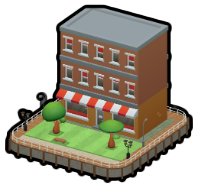
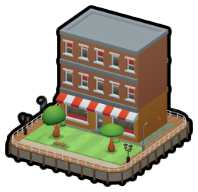
mow: map shots frame the tallest thing, pick the HUD outline's width
- TownSnapshotScene: the shot reaches the top of the tallest thing built (a fixed 15-unit frame cut tall buildings off)
- Map shots tab: the HUD outline's width in pixels (1-12, default 3), saved per zone (strokeWidth)
- Re-baked the town's pictures

diff --git a/games/mow/web/public/mapshots.js b/games/mow/web/public/mapshots.js
@@ -5,7 +5,7 @@
 //     (a second copy of town3d.js) — started from the town (↺ Copy from the town), then anything goes: move things
 //     closer, drop what clutters, add what tells the story.
 // Its camera (yaw round, pitch above; isometric or perspective with its field of view; "🎯 Use this view" takes the
-// diorama view's) sets the angle, and "HUD outline" a black stroke round the small picture. 📸 Take snapshot opens the
+// diorama view's) sets the angle, and "HUD outline" a black stroke round the small picture (its width in pixels). 📸 Take snapshot opens the
 // game in snapshot mode for that zone (TownSnapshotScene: the game's own look), which posts two pictures back here
 // (POST /api/map-snapshot): `<zone>` (512 across, the HUD's reveal) and `<zone>-small` (the HUD's corner).
 
@@ -29,7 +29,7 @@ let preview;
 
 const zoneSettings = (id) => {
     const saved = shots.zones[id] ?? {};
-    return { mode: 'original', stroke: false, ...saved, camera: { ...DEFAULT_CAMERA, ...saved.camera } };
+    return { mode: 'original', stroke: false, strokeWidth: 3, ...saved, camera: { ...DEFAULT_CAMERA, ...saved.camera } };
 };
 const zoneName = (id) => (id === 'town' ? 'Whole town' : town.sections.find((s) => s.id === id)?.name ?? id);
 const imageUrl = (id, small = false) => `/map-images/${id}${small ? '-small' : ''}.webp?t=${Date.now()}`;
@@ -64,7 +64,13 @@ function render() {
         fovLabel.hidden = ortho.checked;
         void saveSettings({ camera: camera() });
     } });
-    const stroke = el('input', { type: 'checkbox', checked: settings.stroke, onchange: () => saveSettings({ stroke: stroke.checked }) });
+    const strokeWidth = el('input', { type: 'number', min: 1, max: 12, step: 1, value: settings.strokeWidth, title: 'The outline\'s width (pixels, on the 192-wide picture)',
+        onchange: () => saveSettings({ strokeWidth: Math.min(12, Math.max(1, Math.round(Number(strokeWidth.value) || 3))) }) });
+    const strokeWidthLabel = el('label', { hidden: !settings.stroke }, strokeWidth, ' px');
+    const stroke = el('input', { type: 'checkbox', checked: settings.stroke, onchange: () => {
+        strokeWidthLabel.hidden = !stroke.checked;
+        void saveSettings({ stroke: stroke.checked });
+    } });
     const custom = settings.mode === 'custom';
     const bar = el('div', { class: 'toolbar mapshots-bar' },
         el('label', {}, 'Zone ', el('select', { onchange: (event) => switchZone(event.target.value) },
@@ -77,6 +83,7 @@ function render() {
         el('label', { title: 'Isometric: no perspective (an orthographic camera). Off: a perspective camera with its field of view.' }, ortho, ' Isometric'),
         fovLabel,
         el('label', { title: 'A black outline round the HUD corner\'s (small) picture, like the rest of the HUD' }, stroke, ' HUD outline'),
+        strokeWidthLabel,
         custom ? el('button', { title: 'The diorama view\'s angle (orbit it first)', onclick: () => useView() }, '🎯 Use this view') : '',
         custom ? el('button', { title: 'Start the diorama again from the town as it is', onclick: () => copyFromTown(true) }, '↺ Copy from the town') : '',
         el('span', { class: 'spacer' }),
@@ -95,8 +102,8 @@ function render() {
 async function saveSettings(change) {
     const settings = { ...zoneSettings(zone), ...change };
     try {
-        await api(`/api/mapshots?zone=${encodeURIComponent(zone)}`, { method: 'PUT', body: JSON.stringify({ mode: settings.mode, camera: settings.camera, stroke: settings.stroke }) });
-        shots.zones[zone] = { ...shots.zones[zone], mode: settings.mode, camera: settings.camera, stroke: settings.stroke };
+        await api(`/api/mapshots?zone=${encodeURIComponent(zone)}`, { method: 'PUT', body: JSON.stringify({ mode: settings.mode, camera: settings.camera, stroke: settings.stroke, strokeWidth: settings.strokeWidth }) });
+        shots.zones[zone] = { ...shots.zones[zone], mode: settings.mode, camera: settings.camera, stroke: settings.stroke, strokeWidth: settings.strokeWidth };
     } catch (error) {
         toast(`Could not save: ${error.message}`, 'bad');
     }

diff --git a/games/mow/game/debug/TownSnapshotScene.ts b/games/mow/game/debug/TownSnapshotScene.ts
@@ -32,7 +32,7 @@ export const SNAPSHOT_PARAM = 'mapshots';
 const RENDER_WIDTH = 2048;
 const BIG_WIDTH = 512;
 const SMALL_WIDTH = 192;
-/** The small picture's outline (`stroke`): its width in pixels. */
+/** The small picture's outline (`stroke`): its width in pixels unless the zone sets one (`strokeWidth`). */
 const STROKE_PX = 3;
 /** A perspective camera's field of view unless the zone sets one (degrees, vertical). */
 const DEFAULT_FOV = 35;
@@ -43,7 +43,7 @@ const MARGIN = 0.03;
 /** A section's slab of earth under it (thickness, colour), and how much of the town round it the clip keeps. */
 const SLAB = { depth: 1.1, color: 0x9a6a42 };
 const CLIP_PAD = 0.02;
-/** The shot's first frame reaches this high (cropped to what's drawn afterwards). */
+/** The shot's frame reaches this high when nothing is built yet (else the tallest thing's top: top()). */
 const MAX_HEIGHT = 15;
 /** A pixel this opaque (0-255) or more counts as drawn, for the crop. */
 const CROP_ALPHA = 8;
@@ -66,8 +66,9 @@ interface Camera {
 interface ZoneShot {
     mode?: 'original' | 'custom';
     camera?: Camera;
-    /** A black outline round the small (HUD) picture's silhouette. */
+    /** A black outline round the small (HUD) picture's silhouette, `strokeWidth` pixels wide. */
     stroke?: boolean;
+    strokeWidth?: number;
 }
 
 export default class TownSnapshotScene extends ThreeScene {
@@ -181,7 +182,7 @@ export default class TownSnapshotScene extends ThreeScene {
             const small = shrunk(render, SMALL_WIDTH);
             const pictures: [string, HTMLCanvasElement][] = [
                 [shot.name, shrunk(render, BIG_WIDTH)],
-                [`${shot.name}-small`, this.settings.stroke ? outlined(small, STROKE_PX) : small],
+                [`${shot.name}-small`, this.settings.stroke ? outlined(small, Math.max(1, this.settings.strokeWidth ?? STROKE_PX)) : small],
             ];
             try {
                 for (const [name, canvas] of pictures) {
@@ -207,7 +208,7 @@ export default class TownSnapshotScene extends ThreeScene {
         const rect = { minX: Math.min(...xs), maxX: Math.max(...xs), minZ: Math.min(...zs), maxZ: Math.max(...zs) };
         return new THREE.Box3(
             new THREE.Vector3(rect.minX, TOWN.island ? -TOWN.island.sideDepth : -SLAB.depth, rect.minZ),
-            new THREE.Vector3(rect.maxX, MAX_HEIGHT, rect.maxZ),
+            new THREE.Vector3(rect.maxX, this.top(), rect.maxZ),
         );
     }
 
@@ -216,8 +217,20 @@ export default class TownSnapshotScene extends ThreeScene {
         const rect = rectOf(section);
         return new THREE.Box3(
             new THREE.Vector3(rect.minX, -SLAB.depth, rect.minZ),
-            new THREE.Vector3(rect.maxX, MAX_HEIGHT, rect.maxZ),
+            new THREE.Vector3(rect.maxX, this.top(), rect.maxZ),
         );
+    }
+
+    /**
+     * The top of the tallest thing built (the frame reaches it: a fixed height cut tall buildings off; the crop takes
+     * away what's left over).
+     */
+    private top(): number {
+        const box = new THREE.Box3();
+        this.threeScene.traverseVisible((child) => {
+            if (child instanceof THREE.Mesh) box.expandByObject(child);
+        });
+        return box.isEmpty() ? MAX_HEIGHT : Math.max(1, box.max.y) + 0.5;
     }
 
     /** Four planes keeping only what's over the section (a hair past its edges, so the slab's sides survive). */

diff --git a/games/mow/README.md b/games/mow/README.md
@@ -95,7 +95,8 @@ town's % (a rippling edge with a glow), and a badge with the %.
   section on its own island, the deck round it) and edited right there with the Town tab's editor (a second copy of
   `town3d.js`). Each zone has a camera (yaw round, pitch above; 0° / 40° unless set; **Isometric** on, an
   orthographic camera, or off, a perspective one with its FOV; 🎯 Use this view takes the diorama view's) and a
-  **HUD outline** toggle (a black stroke round the small picture's silhouette, like the rest of the HUD). Settings and dioramas: `levels/mapshots.json`. **📸 Take snapshot** opens the game with
+  **HUD outline** toggle (a black stroke round the small picture's silhouette, like the rest of the HUD; its width
+  in pixels beside it). The frame reaches the top of the tallest thing in the shot, so nothing is cut off. Settings and dioramas: `levels/mapshots.json`. **📸 Take snapshot** opens the game with
   `?mapshots=<editor url>&zone=<zone>` (`debug/TownSnapshotScene.ts`): it builds the level (a custom diorama swapped in
   for the town) fully restored (every section open, mowed, in bloom, every station out; no player, traffic, sea, labels
   or bend), in the game's light, and renders it with an orthographic camera on a transparent background, cropped to
